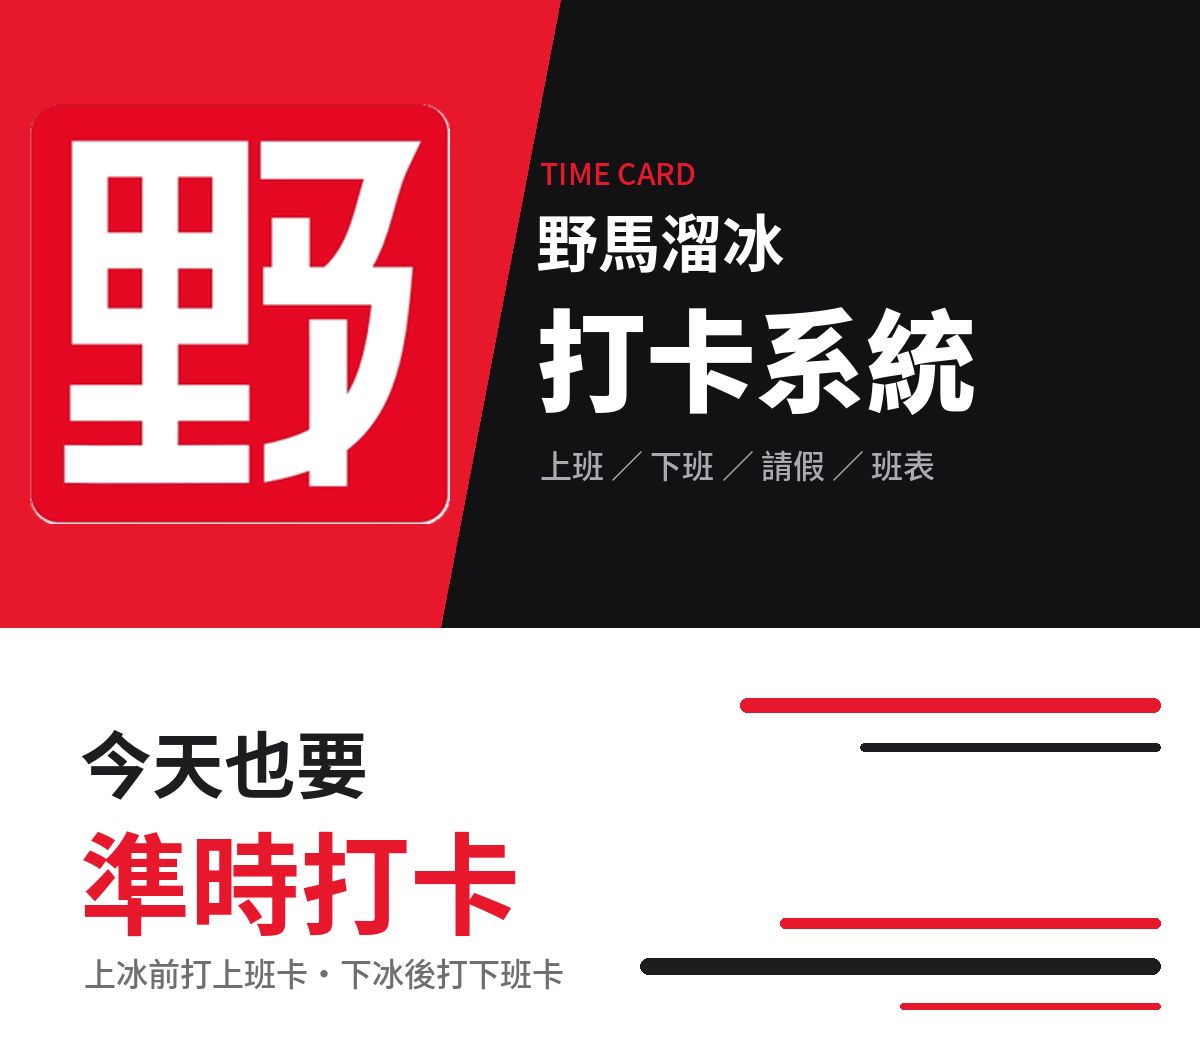
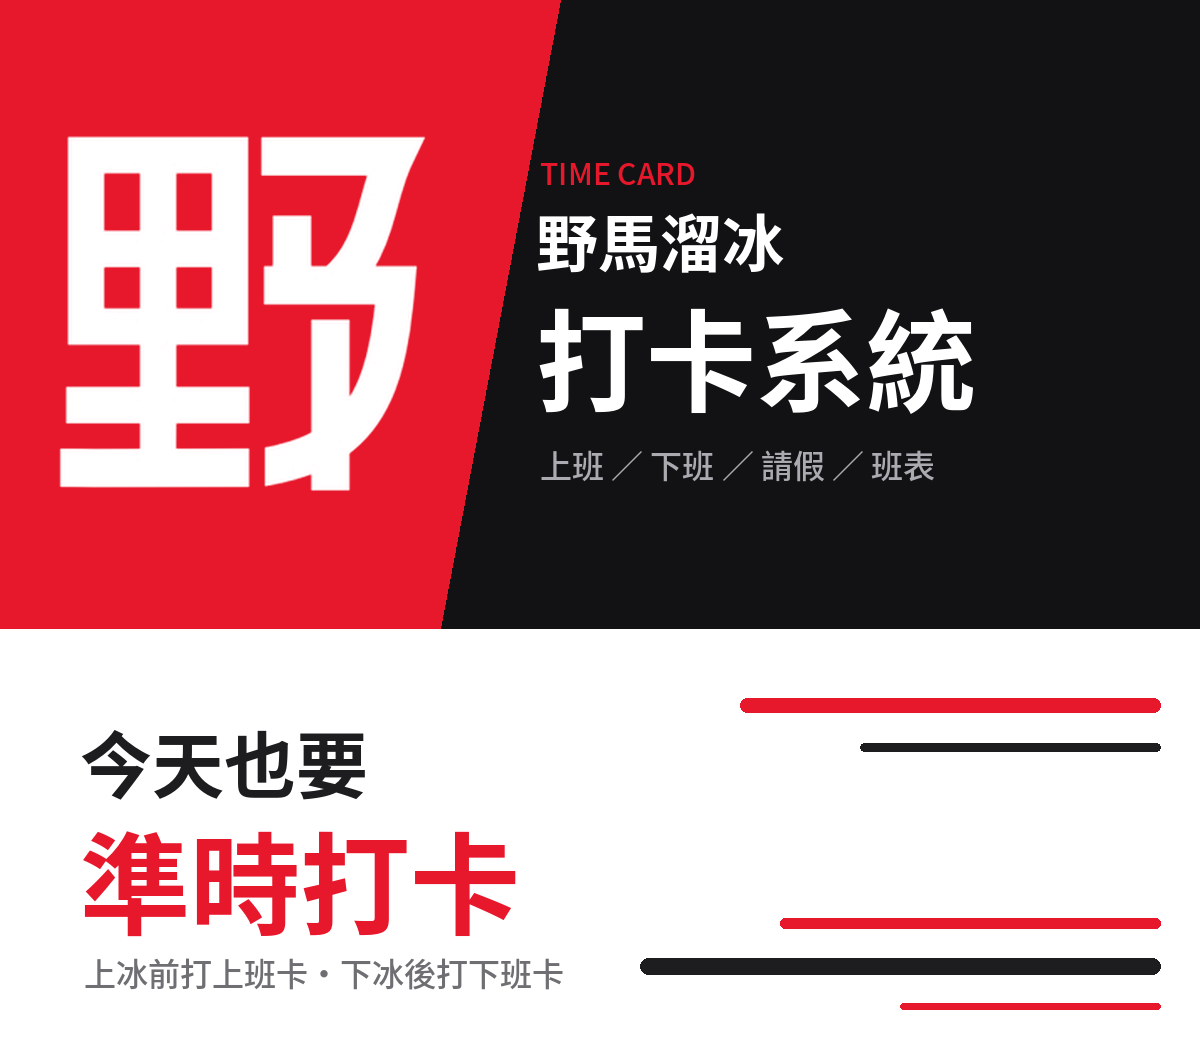
分享圖文：野字直接融入紅底
Claude-Session: https://claude.ai/code/session_01SgUoPMs89Ch7rWoMucrYnN

diff --git a/app.js b/app.js
@@ -6,7 +6,7 @@ import {
   initializeFirestore, doc, getDoc, setDoc as _setDoc, updateDoc as _updateDoc, deleteDoc as _deleteDoc, addDoc as _addDoc,
   collection, query, where, getDocs, serverTimestamp, writeBatch as _writeBatch, deleteField, arrayUnion, arrayRemove
 } from "https://www.gstatic.com/firebasejs/10.12.2/firebase-firestore.js";
-import { firebaseConfig, LIFF_ID, WORKER_URL } from "./config.js?v=71";
+import { firebaseConfig, LIFF_ID, WORKER_URL } from "./config.js?v=72";
 
 /* 整個月的大量查詢（報表、薪資、排班）暫存 3 分鐘，省 Firestore 讀取額度；任何寫入都會清掉暫存 */
 const MEMO = new Map();
@@ -855,7 +855,7 @@ const PUNCH_URL = `https://liff.line.me/${LIFF_ID}?view=clock`;
 $("#sharePunchBtn").onclick = async () => {
   const flex = { type: "flex", altText: "今天也要準時打卡｜野馬溜冰打卡系統", contents: {
     type: "bubble",
-    hero: { type: "image", url: "https://wild-horses-skating.pages.dev/share-card.png?v=3", size: "full", aspectRatio: "1200:1048", aspectMode: "cover", action: { type: "uri", uri: PUNCH_URL } },
+    hero: { type: "image", url: "https://wild-horses-skating.pages.dev/share-card.png?v=4", size: "full", aspectRatio: "1200:1048", aspectMode: "cover", action: { type: "uri", uri: PUNCH_URL } },
     footer: { type: "box", layout: "vertical", paddingAll: "16px", contents: [
       { type: "button", style: "primary", color: "#e8182c", height: "md", action: { type: "uri", label: "我要打卡", uri: PUNCH_URL } },
       { type: "text", text: "第一次使用：點自己的名字 → 輸入 Email 綁定", size: "xxs", color: "#8e8e93", align: "center", margin: "md" }] } } };

diff --git a/index.html b/index.html
@@ -16,7 +16,7 @@
   <title>野馬溜冰打卡系統</title>
   <meta property="og:title" content="野馬溜冰打卡系統">
   <meta property="og:description" content="點這裡上班・下班打卡">
-  <meta property="og:image" content="https://wild-horses-skating.pages.dev/share-card.png?v=3">
+  <meta property="og:image" content="https://wild-horses-skating.pages.dev/share-card.png?v=4">
   <meta property="og:url" content="https://liff.line.me/2012318362-VOU7aFr9?view=clock">
   <meta name="twitter:card" content="summary_large_image">
   <link rel="preconnect" href="https://www.gstatic.com" crossorigin>
@@ -26,7 +26,7 @@
   <link rel="modulepreload" href="https://www.gstatic.com/firebasejs/10.12.2/firebase-app.js">
   <link rel="modulepreload" href="https://www.gstatic.com/firebasejs/10.12.2/firebase-auth.js">
   <link rel="modulepreload" href="https://www.gstatic.com/firebasejs/10.12.2/firebase-firestore.js">
-  <link rel="stylesheet" href="style.css?v=71">
+  <link rel="stylesheet" href="style.css?v=72">
 </head>
 <body>
 
@@ -786,6 +786,6 @@
     }
   }, 25000);
 </script>
-<script type="module" src="app.js?v=71"></script>
+<script type="module" src="app.js?v=72"></script>
 </body>
 </html>
